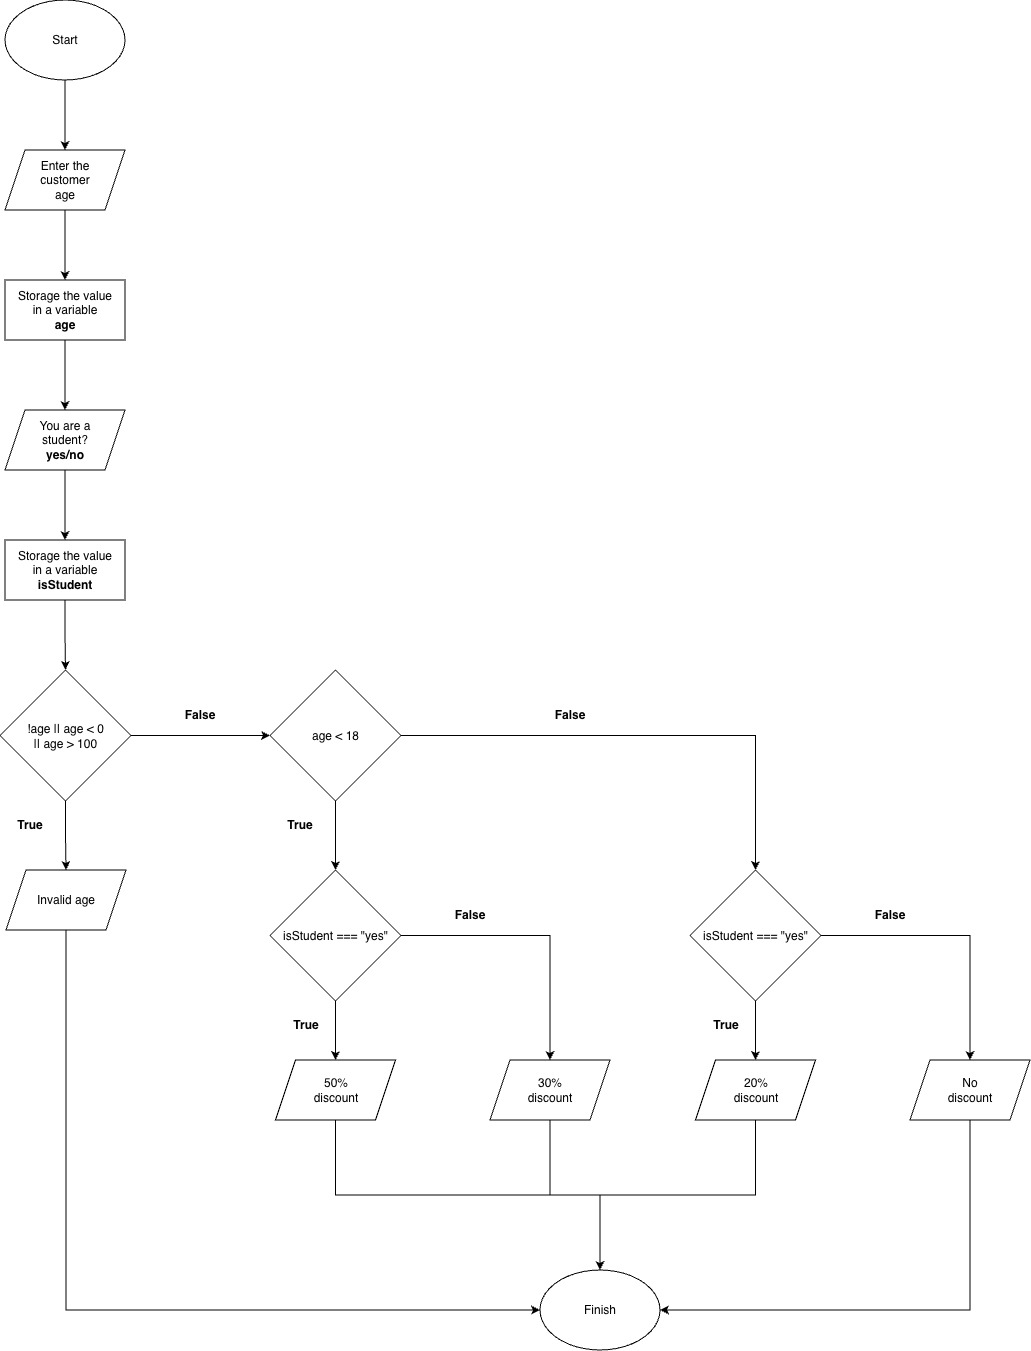
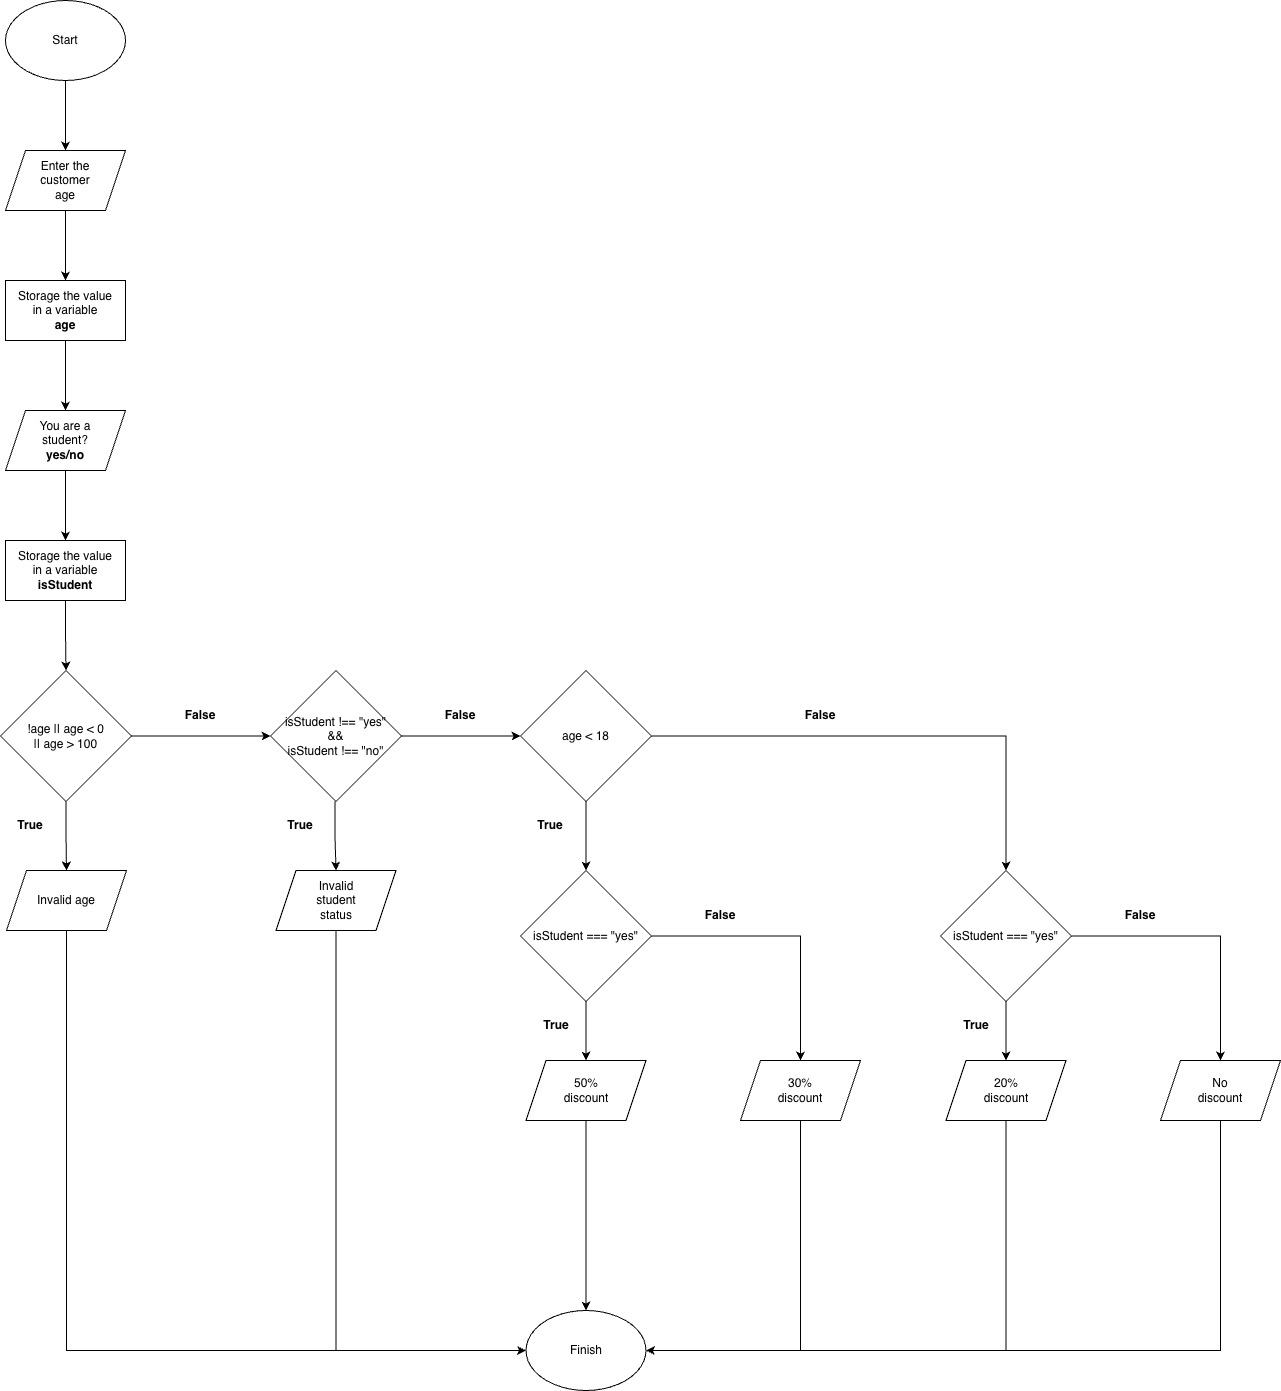
class 49 03-25-2026

diff --git a/class-49/problem-9/problem-9.js b/class-49/problem-9/problem-9.js
@@ -1,0 +1,66 @@
+// Author: Cristian Camilo Cortes Ortiz <Cristianco9>
+
+// Request the user data
+const age = parseInt(prompt("Enter your age:"));
+const isStudent = prompt("Are you a student? (yes/no)").toLowerCase();
+// HELLO GUYS => toLowerCase(); => hello guys
+
+// Conditionals
+// Validate the user age
+if (isNaN(age) || age < 0 || age > 100) {
+    alert("Invalid age.");
+}
+else if (isStudent !== "yes" && isStudent !== "no") {
+    alert("invalid student status");
+} else {
+    // business rules (child - teenager)
+    if (age < 18) {
+        if (isStudent === "yes") {
+            alert("50% discount");
+        } else {
+            alert("30% discount");
+        }
+    } else {
+        // business rules (adults)
+        if (isStudent === "yes") {
+            alert("20% discount");
+        } else {
+            alert("No discount");
+        }
+    }
+}
+
+/*
+---------------------------------------
+Desktop Test
+---------------------------------------
+
+age = 16     isStudent = yes
+=> 50% discount
+
+age = 16     isStudent = no
+=> 30% discount
+
+age = 25     isStudent = yes
+=> 20% discount
+
+age = 25     isStudent = no
+=> No discount
+
+age = -3     isStudent = yes
+=> Invalid age.
+
+age = 120    isStudent = no
+=> Invalid age.
+
+age = "hello"   isStudent = yes
+=> Invalid age.
+
+age = 17     isStudent = maybe
+=> Invalid student status
+
+age = 30     isStudent = student
+=> Invalid student status
+
+---------------------------------------
+*/
